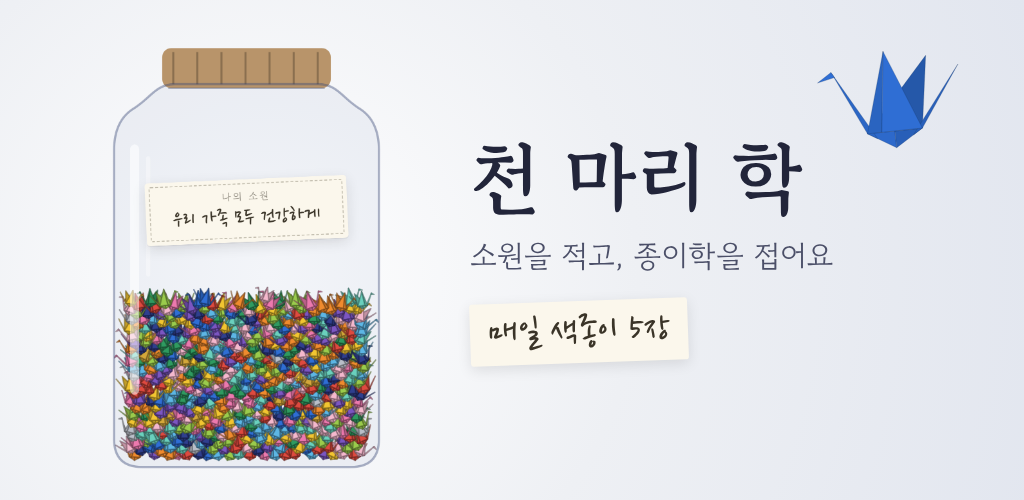
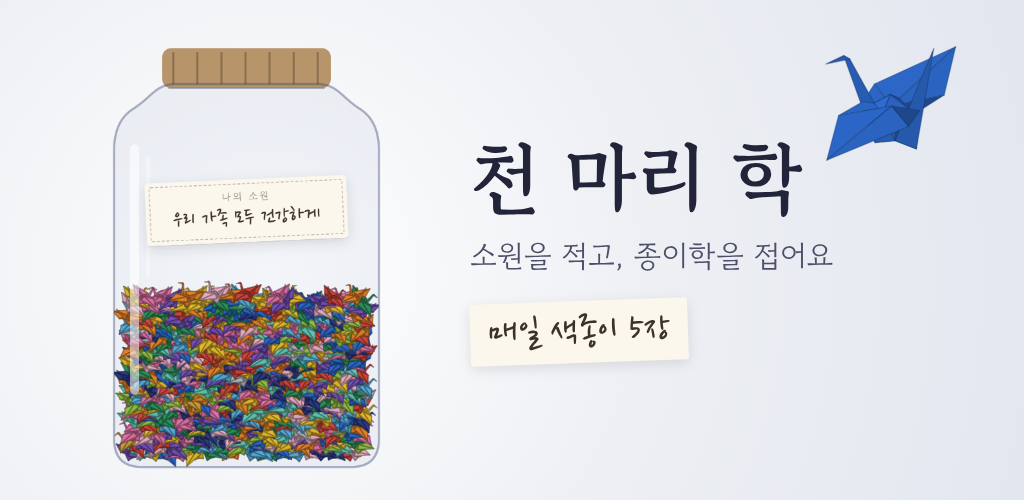
완성 학을 실제 종이학 모양으로: 날개 경첩 위치, 목·꼬리 각도, 부풀린 등
- 날개를 목·꼬리 뿌리 높이에서 꺾어 수평으로 펼침
- 목·꼬리를 더 세움, 등 가운데 부풀린 몸통 추가
- 기본 시점을 비스듬한 위쪽으로, 통 안의 학도 같은 입체 모양
- 뒤집어 접기 안내 문구 정리
- 아이콘·사이트·스토어 이미지 새 모양으로

Claude-Session: https://claude.ai/code/session_01516Ff3eKLAx5EQY3zju5y9

Changed region(s): [[0.0938, 0.57, 0.375, 0.93], [0.7812, 0.09, 0.9375, 0.33]]

diff --git a/android/app/src/main/assets/www/index.html b/android/app/src/main/assets/www/index.html
@@ -215,7 +215,7 @@ const S0=[P([[150,30],[270,150],[150,270],[30,150]])];
 const SB=[P([[150,60],[150,240],[60,150]],0), P([[150,60],[240,150],[150,240]],.07)];
 const BB=[P([N,C,E],0), P([N,E2,C],.07), P([E,C,B],.03), P([C,E2,B],.1)];
 const NS=[P([N,M,F],0,'wingL'), P([N,F2,M],.07,'wingR'), P([F,M,B],.03,'legL'), P([M,F2,B],.1,'legR')];
-const n1=norm(sub(B,[142,135])), t1=norm([-0.62,-0.78]), d1=add(n1,t1);
+const n1=norm(sub(B,[142,135])), t1=norm([-0.38,-0.92]), d1=add(n1,t1);
 const NECK_A=[142,135], NECK_B=add(NECK_A,mul(d1,60));
 const TAIL_A=[158,135], TAIL_B=add(TAIL_A,mul([-d1[0],d1[1]],60));
 const TIP=refl(B,NECK_A,NECK_B,1), U=norm(sub(TIP,NECK_A)), Q=sub(TIP,mul(U,24)), HD=add(U,norm([-0.92,0.4]));
@@ -240,15 +240,15 @@ const STEPS=[
   {t:'아래 양옆 모서리를 가운데 선에 맞춰 접어요', s:'한쪽만 끌어도 양쪽이 같이 접혀요', folds:[{a:B,b:E,toward:[60,150]},{a:B,b:E2,toward:[240,150]}]},
   {t:'아래 꼭짓점을 위로 들어 올려 길게 펼쳐 접어요', s:'꽃잎 접기라고 불러요', folds:[{a:[0,112.8],b:[300,112.8],toward:[150,230]}], keepBehind:true},
   {t:'종이를 뒤집어요', s:'반대쪽도 같은 모양으로 접혀요', flip:true, after:BB},
-  {t:'아래쪽 양옆을 가운데 선에 맞춰 가늘게 접어요', folds:[{a:B,b:F,toward:E},{a:B,b:F2,toward:E2}], after:NS},
-  {t:'왼쪽 다리를 안쪽으로 접어 올려 목을 만들어요', folds:[{a:NECK_A,b:NECK_B,toward:B}], only:['legL']},
-  {t:'오른쪽 다리도 접어 올려 꼬리를 만들어요', folds:[{a:TAIL_A,b:TAIL_B,toward:B}], only:['legR']},
-  {t:'목 끝을 살짝 접어 머리를 만들어요', folds:[{a:Q,b:add(Q,mul(HD,40)),toward:TIP,bound:{a:QB,b:add(QB,[-U[1],U[0]]),toward:TIP}}], only:['legL']},
+  {t:'아래쪽 양옆을 가운데 선에 맞춰 가늘게 접어요', s:'뒷면도 똑같이 가늘게 접어요', folds:[{a:B,b:F,toward:E},{a:B,b:F2,toward:E2}], after:NS},
+  {t:'왼쪽 다리를 날개 사이로 뒤집어 올려 목을 만들어요', s:'안쪽으로 뒤집어 접기예요', folds:[{a:NECK_A,b:NECK_B,toward:B}], only:['legL']},
+  {t:'오른쪽 다리도 같은 방법으로 올려 꼬리를 만들어요', folds:[{a:TAIL_A,b:TAIL_B,toward:B}], only:['legR']},
+  {t:'목 끝을 안쪽으로 뒤집어 꺾어 머리를 만들어요', folds:[{a:Q,b:add(Q,mul(HD,40)),toward:TIP,bound:{a:QB,b:add(QB,[-U[1],U[0]]),toward:TIP}}], only:['legL']},
   {t:'겹친 날개를 앞뒤로 내려 펼치면 완성이에요', s:'점선이 날개가 꺾이는 자리예요', spread:true, after:SIDE}
 ];
 
 function prepare(state, step){
-  if(step.spread) return {stat:[],mov:[],arrows:[{from:[150,8],to:[150,62]}],lines:[[F,F2]]};
+  if(step.spread) return {stat:[],mov:[],arrows:[{from:[150,12],to:[150,84]}],lines:[[[0,M[1]],[300,M[1]]]]};
   const stat=[], mov=[];
   if(step.flip){
     const bb=bbox(state), cx=(bb.x0+bb.x1)/2, cy=(bb.y0+bb.y1)/2;
@@ -305,25 +305,33 @@ const CRANE=STATES[STATES.length-1];
 /* ---------- 3D: 날개 펼치기와 완성 학 돌려보기 ---------- */
 // 마지막 직전 상태는 날개 두 장이 겹쳐 위로 선 학을 옆에서 본 모습이다.
 // 날개는 F–F2 선(경첩)을 따라 앞뒤로 꺾이고, 나머지(몸통·목·꼬리·머리)는 제자리에 있다.
-const HINGE=F[1], SPREAD=1.42, VIEW_YAW=0.55, VIEW_PITCH=0.78, C3=[150,62];
+const HINGE=M[1], SPREAD=1.55, VIEW_YAW=-0.55, VIEW_PITCH=0.55, C3=[150,62];
 const MODEL3=(()=>{
   const flat=STATES[STATES.length-2], out=[];
   flat.forEach(p=>{
-    if(p.tag==='wingL'||p.tag==='wingR'){
+    const onWing = p.tag==='wingL'||p.tag==='wingR'||(!p.back && p.pts.every(q=>q[0]>112&&q[0]<188));
+    if(onWing){
       const up=clip(p.pts,[0,HINGE],[300,HINGE],1*Math.sign(side([150,0],[0,HINGE],[300,HINGE])));
       const dn=clip(p.pts,[0,HINGE],[300,HINGE],-1*Math.sign(side([150,0],[0,HINGE],[300,HINGE])));
       if(ok(up)){ out.unshift({pts:up,shade:p.shade,wing:-1}); out.push({pts:up,shade:p.shade,wing:1}); }
       if(ok(dn)) out.push({pts:dn,shade:p.shade,wing:0});
     } else out.push({pts:p.pts,shade:p.shade,wing:0});
   });
+  // 날개를 펼치면 등 가운데가 부풀어 오른다 (사진의 가운데 네모)
+  const cx=150, w=17, h=11, dz=15;
+  const a=[cx,HINGE-h,0], f=[cx-w,HINGE,0], bk=[cx+w,HINGE,0], zp=[cx,HINGE,dz], zn=[cx,HINGE,-dz];
+  [[f,zp,a],[zp,bk,a],[bk,zn,a],[zn,f,a]].forEach(t=>out.push({p3:t,shade:.02,wing:0,puff:1}));
   return out.map((q,i)=>({...q,order:i}));
 })();
 function pose3(phi,yaw,pitch){
   const cy=Math.cos(yaw), sy=Math.sin(yaw), cp=Math.cos(pitch), sp=Math.sin(pitch);
   const L=norm3([-0.55,-0.6,0.58]);
-  return MODEL3.map(m=>{
-    const P=m.pts.map(([x,y])=>{
-      let X=x-C3[0], Y=y-C3[1], Z=0;
+  return MODEL3.filter(m=>!m.puff||phi>0.05).map(m=>{
+    const src=m.p3 ? m.p3 : m.pts.map(([x,y])=>[x,y,0]);
+    const g=phi/SPREAD;
+    const P=src.map(([x,y,z])=>{
+      let X=x-C3[0], Y=y-C3[1], Z=z;
+      if(m.p3){ Y=HINGE-C3[1]-(HINGE-y)*g; Z=z*g; }
       if(m.wing){ const d=HINGE-y; Y=HINGE-C3[1]-d*Math.cos(phi); Z=m.wing*d*Math.sin(phi); }
       const x1=X*cy+Z*sy, z1=-X*sy+Z*cy;
       const y2=Y*cp+z1*sp, z2=-Y*sp+z1*cp;
@@ -338,7 +346,7 @@ function pose3(phi,yaw,pitch){
 function sub3(a,b){ return [a[0]-b[0],a[1]-b[1],a[2]-b[2]]; }
 function cross3(a,b){ return [a[1]*b[2]-a[2]*b[1],a[2]*b[0]-a[0]*b[2],a[0]*b[1]-a[1]*b[0]]; }
 function norm3(a){ const l=Math.hypot(a[0],a[1],a[2])||1; return [a[0]/l,a[1]/l,a[2]/l]; }
-const R3=Math.max(...MODEL3.flatMap(m=>m.pts.map(([x,y])=>Math.hypot(x-C3[0],y-C3[1]))));
+const R3=Math.max(...MODEL3.filter(m=>m.pts).flatMap(m=>m.pts.map(([x,y])=>Math.hypot(x-C3[0],y-C3[1]))));
 function fit3(){ const s=Math.min(1.7,128/R3); return {s,str:`translate(${150-C3[0]*s}px,${150-C3[1]*s}px) scale(${s})`}; }
 
 /* ---------- color helpers ---------- */
@@ -432,12 +440,12 @@ function computeLayout(){
     layout.push({x:best.x,y:best.y,rot:(rng()-.5)*0.9,mir:rng()<.5,s:.9+rng()*.22});
   }
 }
-const CB=bbox(CRANE), CW=CB.x1-CB.x0, CH=CB.y1-CB.y0;
+const JAR_CRANE=pose3(SPREAD,-0.55,0.45), CB=bbox(JAR_CRANE), CW=CB.x1-CB.x0, CH=CB.y1-CB.y0;
 function drawCrane(ctx,x,y,key,sc,rotA,mir,alpha=1){
   const col=COLORS[key].c, k=26/CW*sc;
   ctx.save(); ctx.translate(x,y); ctx.rotate(rotA); ctx.scale(mir?-k:k,k); ctx.translate(-(CB.x0+CW/2),-(CB.y0+CH*.62));
   ctx.globalAlpha=alpha; ctx.lineJoin='round'; ctx.lineWidth=1.4/k; ctx.strokeStyle=edgeCol(col);
-  for(const p of CRANE){ ctx.beginPath(); p.pts.forEach((q,i)=>i?ctx.lineTo(q[0],q[1]):ctx.moveTo(q[0],q[1])); ctx.closePath(); ctx.fillStyle=shadeCol(col,p.shade,p.back); ctx.fill(); ctx.stroke(); }
+  for(const p of JAR_CRANE){ ctx.beginPath(); p.pts.forEach((q,i)=>i?ctx.lineTo(q[0],q[1]):ctx.moveTo(q[0],q[1])); ctx.closePath(); ctx.fillStyle=shadeCol(col,p.shade,p.back); ctx.fill(); ctx.stroke(); }
   ctx.restore();
 }
 function cssv(n){ return getComputedStyle(document.documentElement).getPropertyValue(n).trim(); }

diff --git a/design/prototype.html b/design/prototype.html
@@ -202,7 +202,7 @@ const S0=[P([[150,30],[270,150],[150,270],[30,150]])];
 const SB=[P([[150,60],[150,240],[60,150]],0), P([[150,60],[240,150],[150,240]],.07)];
 const BB=[P([N,C,E],0), P([N,E2,C],.07), P([E,C,B],.03), P([C,E2,B],.1)];
 const NS=[P([N,M,F],0,'wingL'), P([N,F2,M],.07,'wingR'), P([F,M,B],.03,'legL'), P([M,F2,B],.1,'legR')];
-const n1=norm(sub(B,[142,135])), t1=norm([-0.62,-0.78]), d1=add(n1,t1);
+const n1=norm(sub(B,[142,135])), t1=norm([-0.38,-0.92]), d1=add(n1,t1);
 const NECK_A=[142,135], NECK_B=add(NECK_A,mul(d1,60));
 const TAIL_A=[158,135], TAIL_B=add(TAIL_A,mul([-d1[0],d1[1]],60));
 const TIP=refl(B,NECK_A,NECK_B,1), U=norm(sub(TIP,NECK_A)), Q=sub(TIP,mul(U,24)), HD=add(U,norm([-0.92,0.4]));
@@ -227,15 +227,15 @@ const STEPS=[
   {t:'아래 양옆 모서리를 가운데 선에 맞춰 접어요', s:'한쪽만 끌어도 양쪽이 같이 접혀요', folds:[{a:B,b:E,toward:[60,150]},{a:B,b:E2,toward:[240,150]}]},
   {t:'아래 꼭짓점을 위로 들어 올려 길게 펼쳐 접어요', s:'꽃잎 접기라고 불러요', folds:[{a:[0,112.8],b:[300,112.8],toward:[150,230]}], keepBehind:true},
   {t:'종이를 뒤집어요', s:'반대쪽도 같은 모양으로 접혀요', flip:true, after:BB},
-  {t:'아래쪽 양옆을 가운데 선에 맞춰 가늘게 접어요', folds:[{a:B,b:F,toward:E},{a:B,b:F2,toward:E2}], after:NS},
-  {t:'왼쪽 다리를 안쪽으로 접어 올려 목을 만들어요', folds:[{a:NECK_A,b:NECK_B,toward:B}], only:['legL']},
-  {t:'오른쪽 다리도 접어 올려 꼬리를 만들어요', folds:[{a:TAIL_A,b:TAIL_B,toward:B}], only:['legR']},
-  {t:'목 끝을 살짝 접어 머리를 만들어요', folds:[{a:Q,b:add(Q,mul(HD,40)),toward:TIP,bound:{a:QB,b:add(QB,[-U[1],U[0]]),toward:TIP}}], only:['legL']},
+  {t:'아래쪽 양옆을 가운데 선에 맞춰 가늘게 접어요', s:'뒷면도 똑같이 가늘게 접어요', folds:[{a:B,b:F,toward:E},{a:B,b:F2,toward:E2}], after:NS},
+  {t:'왼쪽 다리를 날개 사이로 뒤집어 올려 목을 만들어요', s:'안쪽으로 뒤집어 접기예요', folds:[{a:NECK_A,b:NECK_B,toward:B}], only:['legL']},
+  {t:'오른쪽 다리도 같은 방법으로 올려 꼬리를 만들어요', folds:[{a:TAIL_A,b:TAIL_B,toward:B}], only:['legR']},
+  {t:'목 끝을 안쪽으로 뒤집어 꺾어 머리를 만들어요', folds:[{a:Q,b:add(Q,mul(HD,40)),toward:TIP,bound:{a:QB,b:add(QB,[-U[1],U[0]]),toward:TIP}}], only:['legL']},
   {t:'겹친 날개를 앞뒤로 내려 펼치면 완성이에요', s:'점선이 날개가 꺾이는 자리예요', spread:true, after:SIDE}
 ];
 
 function prepare(state, step){
-  if(step.spread) return {stat:[],mov:[],arrows:[{from:[150,8],to:[150,62]}],lines:[[F,F2]]};
+  if(step.spread) return {stat:[],mov:[],arrows:[{from:[150,12],to:[150,84]}],lines:[[[0,M[1]],[300,M[1]]]]};
   const stat=[], mov=[];
   if(step.flip){
     const bb=bbox(state), cx=(bb.x0+bb.x1)/2, cy=(bb.y0+bb.y1)/2;
@@ -292,25 +292,33 @@ const CRANE=STATES[STATES.length-1];
 /* ---------- 3D: 날개 펼치기와 완성 학 돌려보기 ---------- */
 // 마지막 직전 상태는 날개 두 장이 겹쳐 위로 선 학을 옆에서 본 모습이다.
 // 날개는 F–F2 선(경첩)을 따라 앞뒤로 꺾이고, 나머지(몸통·목·꼬리·머리)는 제자리에 있다.
-const HINGE=F[1], SPREAD=1.42, VIEW_YAW=0.55, VIEW_PITCH=0.78, C3=[150,62];
+const HINGE=M[1], SPREAD=1.55, VIEW_YAW=-0.55, VIEW_PITCH=0.55, C3=[150,62];
 const MODEL3=(()=>{
   const flat=STATES[STATES.length-2], out=[];
   flat.forEach(p=>{
-    if(p.tag==='wingL'||p.tag==='wingR'){
+    const onWing = p.tag==='wingL'||p.tag==='wingR'||(!p.back && p.pts.every(q=>q[0]>112&&q[0]<188));
+    if(onWing){
       const up=clip(p.pts,[0,HINGE],[300,HINGE],1*Math.sign(side([150,0],[0,HINGE],[300,HINGE])));
       const dn=clip(p.pts,[0,HINGE],[300,HINGE],-1*Math.sign(side([150,0],[0,HINGE],[300,HINGE])));
       if(ok(up)){ out.unshift({pts:up,shade:p.shade,wing:-1}); out.push({pts:up,shade:p.shade,wing:1}); }
       if(ok(dn)) out.push({pts:dn,shade:p.shade,wing:0});
     } else out.push({pts:p.pts,shade:p.shade,wing:0});
   });
+  // 날개를 펼치면 등 가운데가 부풀어 오른다 (사진의 가운데 네모)
+  const cx=150, w=17, h=11, dz=15;
+  const a=[cx,HINGE-h,0], f=[cx-w,HINGE,0], bk=[cx+w,HINGE,0], zp=[cx,HINGE,dz], zn=[cx,HINGE,-dz];
+  [[f,zp,a],[zp,bk,a],[bk,zn,a],[zn,f,a]].forEach(t=>out.push({p3:t,shade:.02,wing:0,puff:1}));
   return out.map((q,i)=>({...q,order:i}));
 })();
 function pose3(phi,yaw,pitch){
   const cy=Math.cos(yaw), sy=Math.sin(yaw), cp=Math.cos(pitch), sp=Math.sin(pitch);
   const L=norm3([-0.55,-0.6,0.58]);
-  return MODEL3.map(m=>{
-    const P=m.pts.map(([x,y])=>{
-      let X=x-C3[0], Y=y-C3[1], Z=0;
+  return MODEL3.filter(m=>!m.puff||phi>0.05).map(m=>{
+    const src=m.p3 ? m.p3 : m.pts.map(([x,y])=>[x,y,0]);
+    const g=phi/SPREAD;
+    const P=src.map(([x,y,z])=>{
+      let X=x-C3[0], Y=y-C3[1], Z=z;
+      if(m.p3){ Y=HINGE-C3[1]-(HINGE-y)*g; Z=z*g; }
       if(m.wing){ const d=HINGE-y; Y=HINGE-C3[1]-d*Math.cos(phi); Z=m.wing*d*Math.sin(phi); }
       const x1=X*cy+Z*sy, z1=-X*sy+Z*cy;
       const y2=Y*cp+z1*sp, z2=-Y*sp+z1*cp;
@@ -325,7 +333,7 @@ function pose3(phi,yaw,pitch){
 function sub3(a,b){ return [a[0]-b[0],a[1]-b[1],a[2]-b[2]]; }
 function cross3(a,b){ return [a[1]*b[2]-a[2]*b[1],a[2]*b[0]-a[0]*b[2],a[0]*b[1]-a[1]*b[0]]; }
 function norm3(a){ const l=Math.hypot(a[0],a[1],a[2])||1; return [a[0]/l,a[1]/l,a[2]/l]; }
-const R3=Math.max(...MODEL3.flatMap(m=>m.pts.map(([x,y])=>Math.hypot(x-C3[0],y-C3[1]))));
+const R3=Math.max(...MODEL3.filter(m=>m.pts).flatMap(m=>m.pts.map(([x,y])=>Math.hypot(x-C3[0],y-C3[1]))));
 function fit3(){ const s=Math.min(1.7,128/R3); return {s,str:`translate(${150-C3[0]*s}px,${150-C3[1]*s}px) scale(${s})`}; }
 
 /* ---------- color helpers ---------- */
@@ -417,12 +425,12 @@ function computeLayout(){
     layout.push({x:best.x,y:best.y,rot:(rng()-.5)*0.9,mir:rng()<.5,s:.9+rng()*.22});
   }
 }
-const CB=bbox(CRANE), CW=CB.x1-CB.x0, CH=CB.y1-CB.y0;
+const JAR_CRANE=pose3(SPREAD,-0.55,0.45), CB=bbox(JAR_CRANE), CW=CB.x1-CB.x0, CH=CB.y1-CB.y0;
 function drawCrane(ctx,x,y,key,sc,rotA,mir,alpha=1){
   const col=COLORS[key].c, k=26/CW*sc;
   ctx.save(); ctx.translate(x,y); ctx.rotate(rotA); ctx.scale(mir?-k:k,k); ctx.translate(-(CB.x0+CW/2),-(CB.y0+CH*.62));
   ctx.globalAlpha=alpha; ctx.lineJoin='round'; ctx.lineWidth=1.4/k; ctx.strokeStyle=edgeCol(col);
-  for(const p of CRANE){ ctx.beginPath(); p.pts.forEach((q,i)=>i?ctx.lineTo(q[0],q[1]):ctx.moveTo(q[0],q[1])); ctx.closePath(); ctx.fillStyle=shadeCol(col,p.shade,p.back); ctx.fill(); ctx.stroke(); }
+  for(const p of JAR_CRANE){ ctx.beginPath(); p.pts.forEach((q,i)=>i?ctx.lineTo(q[0],q[1]):ctx.moveTo(q[0],q[1])); ctx.closePath(); ctx.fillStyle=shadeCol(col,p.shade,p.back); ctx.fill(); ctx.stroke(); }
   ctx.restore();
 }
 function cssv(n){ return getComputedStyle(document.documentElement).getPropertyValue(n).trim(); }

diff --git a/index.html b/index.html
@@ -18,16 +18,25 @@
       <p class="lead">매일 받는 색종이로 한 마리씩 접어 유리통을 채워가는 종이학 앱이에요.</p>
       <span class="label">우리 가족 모두 건강하게</span>
     </div>
-    <svg viewBox="20 50 260 180" role="img" aria-label="빨간 종이학">
-      <g stroke="rgba(80,20,20,.5)" stroke-width="1.2" stroke-linejoin="round">
-        <path d="M104 192L196 192L214 72Z" fill="#b13b32"/>
-        <path d="M104 192L150 192L150 220Z" fill="#d5473c"/>
-        <path d="M150 192L196 192L150 220Z" fill="#c14036"/>
-        <path d="M196 192L179.9 201.8L266 92Z" fill="#c34137"/>
-        <path d="M104 192L120.1 201.8L54 84Z" fill="#ce443a"/>
-        <path d="M54 84L59 93L30 99Z" fill="#de4a3f"/>
-        <path d="M104 192L144 58L128 192Z" fill="#ca4339"/>
-        <path d="M128 192L144 58L196 192Z" fill="#de4a3f"/>
+    <svg viewBox="84 43 132 99" role="img" aria-label="빨간 종이학">
+      <g stroke="rgba(80,20,20,.5)" stroke-width=".8" stroke-linejoin="round">
+        <path d="M209.8 51.7L150.0 96.2L137.5 76.1Z" fill="#d0453b"/>
+        <path d="M209.8 51.7L195.8 91.6L150.0 96.2Z" fill="#ca4339"/>
+        <path d="M126.2 89.9L137.5 76.1L150.0 96.2L150.0 96.2Z" fill="#ce443a"/>
+        <path d="M132.7 125.8L126.2 89.9L150.0 96.2L150.0 96.2L150.0 126.0Z" fill="#ba3e34"/>
+        <path d="M113.8 49.2L132.7 125.8L150.0 126.0L118.9 52.7Z" fill="#ba3e34"/>
+        <path d="M113.8 49.2L118.9 52.7L98.0 54.8Z" fill="#ba3e34"/>
+        <path d="M157.8 90.7L135.5 92.4L150.0 86.3Z" fill="#b73d34"/>
+        <path d="M150.0 126.0L150.0 96.2L150.0 96.2L173.8 102.6L167.3 135.0Z" fill="#923029"/>
+        <path d="M126.2 89.9L104.2 99.6L150.0 96.2L150.0 96.2Z" fill="#cc443a"/>
+        <path d="M164.5 100.1L157.8 90.7L150.0 86.3Z" fill="#a3362e"/>
+        <path d="M150.0 96.2L150.0 96.2L195.8 91.6L173.8 102.6Z" fill="#923029"/>
+        <path d="M135.5 92.4L142.2 101.8L150.0 86.3Z" fill="#db493e"/>
+        <path d="M142.2 101.8L164.5 100.1L150.0 86.3Z" fill="#c64238"/>
+        <path d="M150.0 126.0L167.3 135.0L191.1 51.1Z" fill="#b43c33"/>
+        <path d="M150.0 96.2L150.0 96.2L162.5 115.2L173.8 102.6Z" fill="#923029"/>
+        <path d="M90.2 136.5L150.0 96.2L104.2 99.6Z" fill="#cf453a"/>
+        <path d="M90.2 136.5L162.5 115.2L150.0 96.2Z" fill="#c94339"/>
       </g>
     </svg>
   </section>

diff --git a/store/gen.py b/store/gen.py
@@ -2,13 +2,13 @@ import asyncio, base64
 from playwright.async_api import async_playwright
 APP='file:///home/claude/thousand-paper-cranes.github.io/android/app/src/main/assets/www/index.html'
 FONTS='/home/claude/thousand-paper-cranes.github.io/android/app/src/main/assets/www/fonts/'
-SIDE=[([[104,192],[196,192],[214,72]],.2),([[104,192],[150,192],[150,220]],.04),([[150,192],[196,192],[150,220]],.13),([[196,192],[179.9,201.8],[266,92]],.12),([[104,192],[120.1,201.8],[54,84]],.07),([[54,84],[59,93],[30,99]],0),([[104,192],[144,58],[128,192]],.09),([[128,192],[144,58],[196,192]],0)]
+SIDE=[[[[209.78248907876946, 51.662394979505294], [150, 96.21698988940173], [137.46152107200606, 76.05665699091657]], 0.05897131364726037], [[[209.78248907876946, 51.662394979505294], [195.77419838087624, 91.60746058273467], [150, 96.21698988940173]], 0.08697131364726043], [[[126.24046908253253, 89.88080681939435], [137.46152107200606, 76.05665699091657], [150, 96.21698988940173], [150, 96.21698988940173]], 0.0709713136472604], [[[132.67837525204288, 125.75571145517841], [126.24046908253253, 89.88080681939435], [150, 96.21698988940173], [150, 96.21698988940173], [150, 126.01652244797272]], 0.15884806863198994], [[[113.84298667656782, 49.19599565873989], [132.67837525204288, 125.75571145517841], [150, 126.01652244797272], [118.9073227512811, 52.71088040107948]], 0.15884806863198989], [[[113.84298667656782, 49.19599565873989], [118.9073227512811, 52.71088040107948], [97.95471515434707, 54.80458233790896]], 0.15884806863199016], [[[157.84030843395988, 90.6547081281937], [135.5070831249884, 92.35202408441769], [150, 86.31207176352228]], 0.17207102254995443], [[[150, 126.01652244797272], [150, 96.21698988940173], [150, 96.21698988940173], [173.75953091746746, 102.5531729594091], [167.32162474795712, 134.9943606401536]], 0.33999999999999997], [[[126.24046908253253, 89.88080681939435], [104.22580161912374, 99.63563193693454], [150, 96.21698988940173], [150, 96.21698988940173]], 0.07734084972827804], [[[164.4929168750116, 100.08195569438575], [157.84030843395988, 90.6547081281937], [150, 86.31207176352228]], 0.2643612428865775], [[[150, 96.21698988940173], [150, 96.21698988940173], [195.77419838087624, 91.60746058273467], [173.75953091746746, 102.5531729594091]], 0.33999999999999997], [[[135.5070831249884, 92.35202408441769], [142.15969156604012, 101.77927165060973], [150, 86.31207176352228]], 0.01148117292704304], [[[142.15969156604012, 101.77927165060973], [164.4929168750116, 100.08195569438575], [150, 86.31207176352228]], 0.1037713932636661], [[[150, 126.01652244797272], [167.32162474795712, 134.9943606401536], [191.09252920851034, 51.05181366134739]], 0.18684806863198988], [[[150, 96.21698988940173], [150, 96.21698988940173], [162.53847892799394, 115.18643552875264], [173.75953091746746, 102.5531729594091]], 0.33999999999999997], [[[90.21751092123056, 136.4873866092052], [150, 96.21698988940173], [104.22580161912374, 99.63563193693454]], 0.06534084972827807], [[[90.21751092123056, 136.4873866092052], [162.53847892799394, 115.18643552875264], [150, 96.21698988940173]], 0.09334084972827808]]
 def crane_svg(hexc='#DE4A3F'):
     r,g,b=int(hexc[1:3],16),int(hexc[3:5],16),int(hexc[5:7],16)
     ps=''
     for pts,s in SIDE:
         k=1-s; ps+=f'<path d="M{"L".join(f"{x},{y}" for x,y in pts)}Z" fill="rgb({int(r*k)},{int(g*k)},{int(b*k)})" stroke="rgba({int(r*.45)},{int(g*.45)},{int(b*.45)},.35)" stroke-width="1" stroke-linejoin="round"/>'
-    return f'<svg viewBox="24 50 250 176" xmlns="http://www.w3.org/2000/svg">{ps}</svg>'
+    return f'<svg viewBox="86 45 128 95" xmlns="http://www.w3.org/2000/svg">{ps}</svg>'
 f64=lambda n: base64.b64encode(open(FONTS+n+'.woff2','rb').read()).decode()
 NATIVE="window.Native={isDebug:()=>false,vibrate:()=>{},showRewardedAd:()=>setTimeout(()=>window.onAdResult('reward'),200)};"
 async def shot(pg,name):
